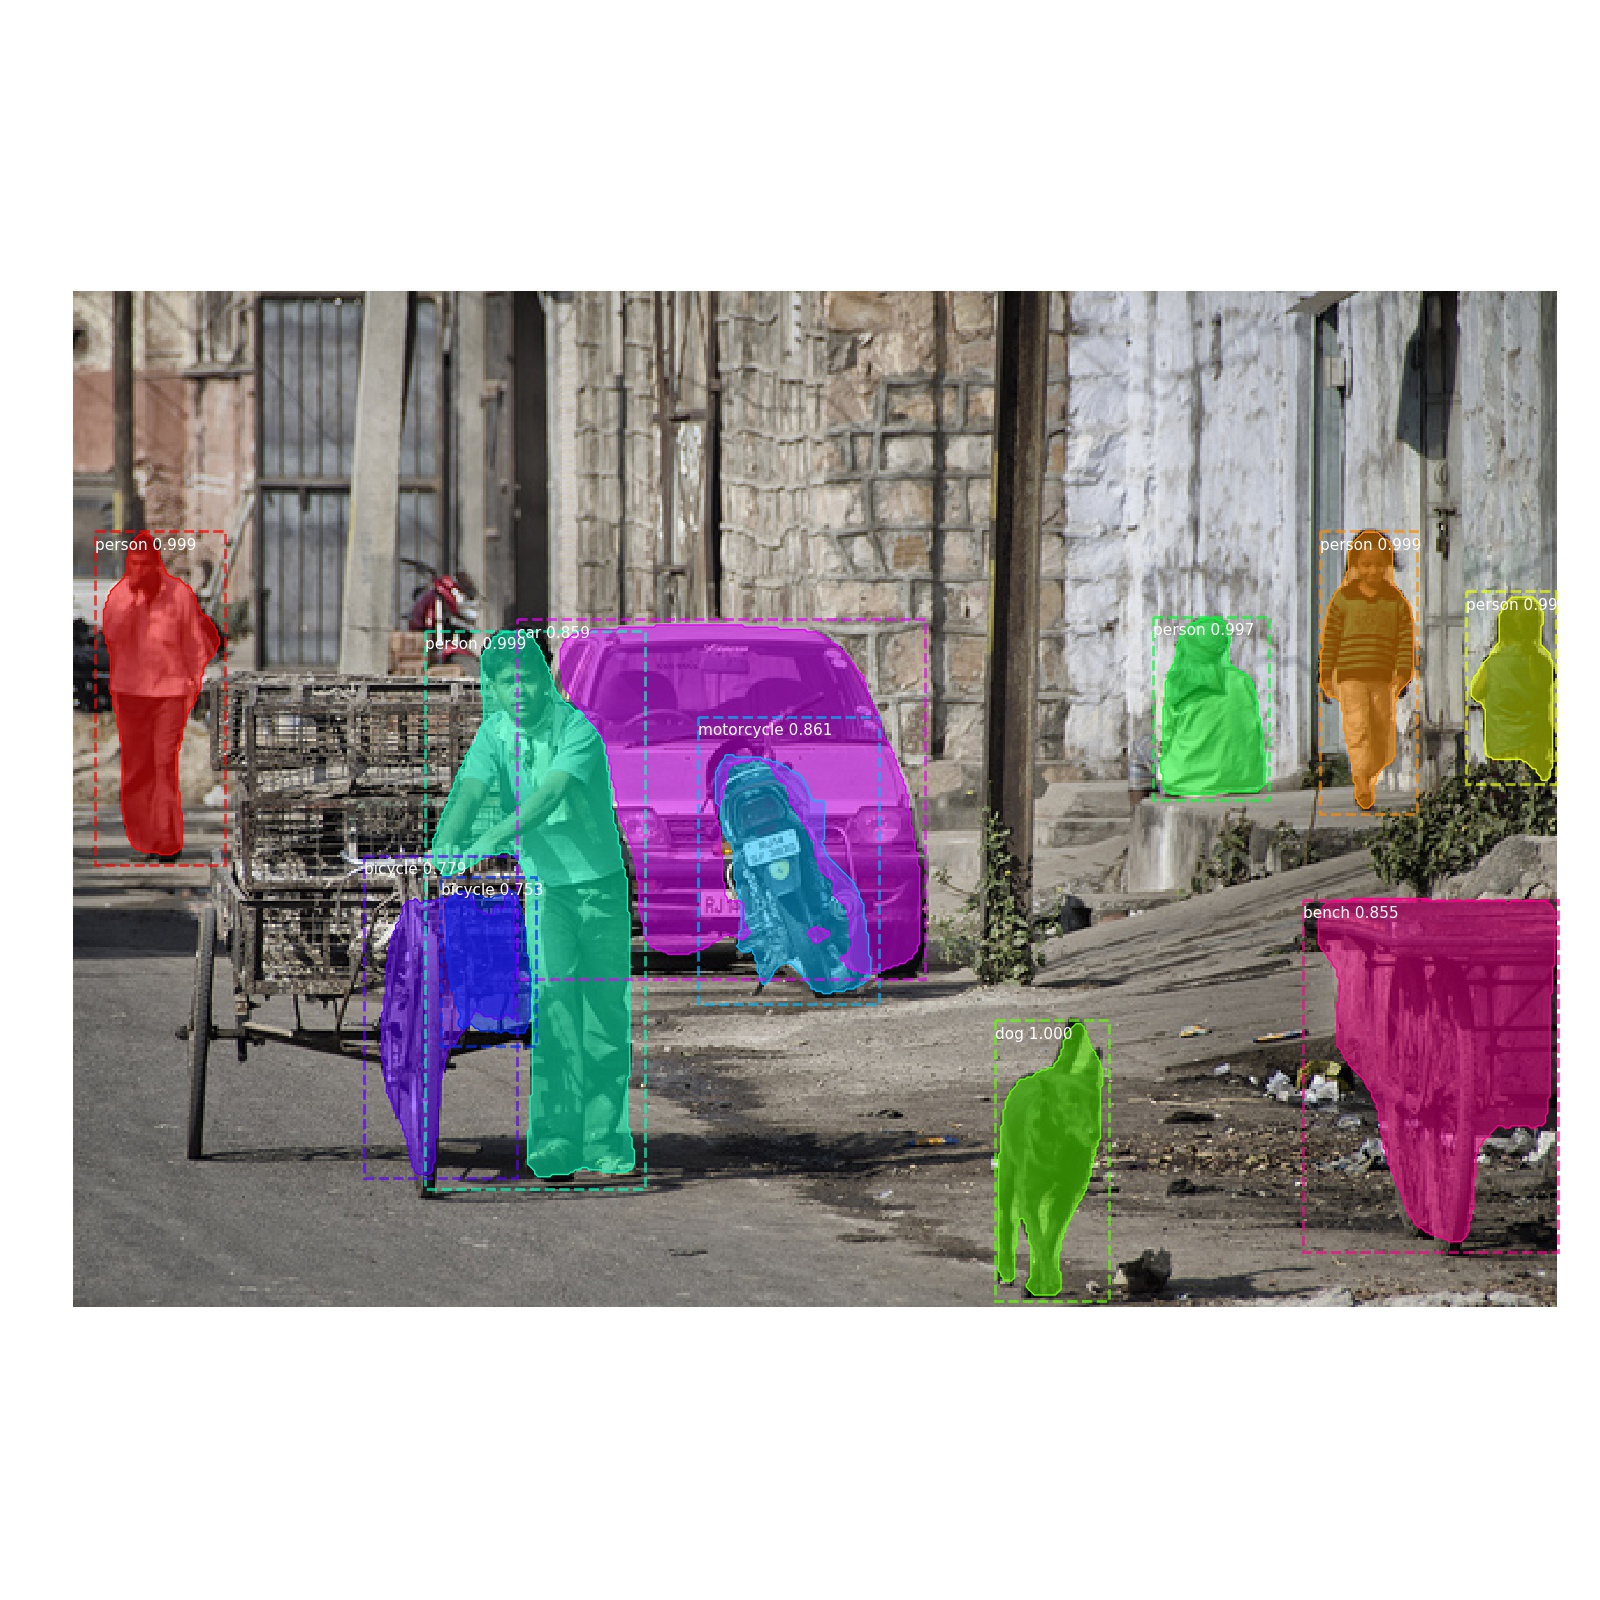
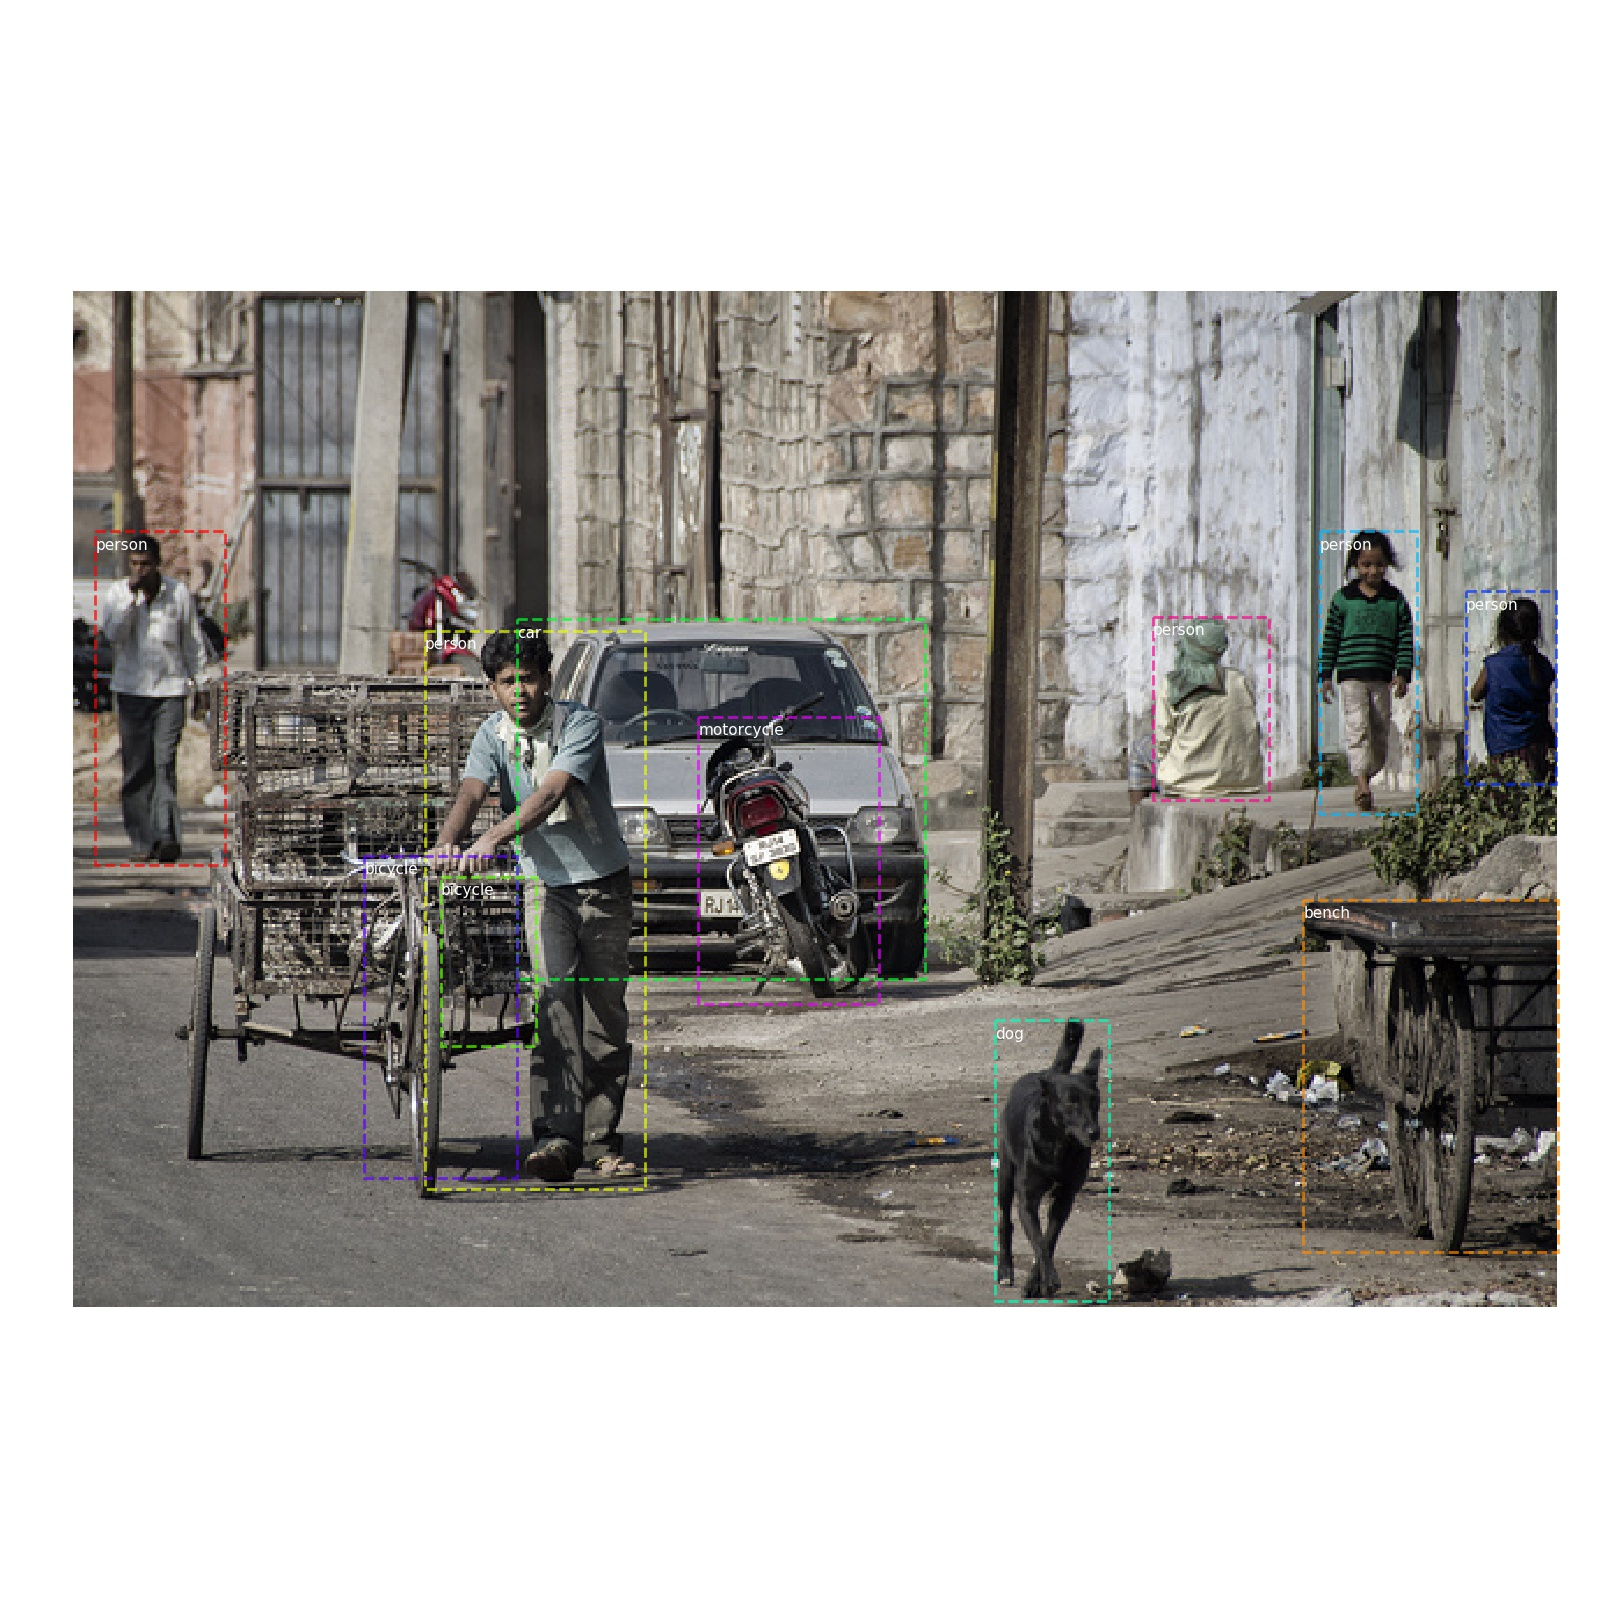
Can choose what components to output

diff --git a/main.py b/main.py
@@ -67,21 +67,22 @@ def main(args):
 
 	# Fill in image and video relevance data to the database
 	db = sqlite3.connect(args.db_path)
+	output_array = [args.bound_boxes, args.masks, args.scores, args.labels]
 	if(args.proc_imgs):
-		img_labels = analyze_images(model,args.img_dir, args.num_imgs, class_names, args.output, args.save)
+		img_labels = analyze_images(model,args.img_dir, args.num_imgs, class_names, args.output, args.save, output_array)
 		for i, c, s in img_labels:
 			rel = calc_relevence(c, s) 
 			add_labels_db(db, i, rel)
 
 	if(args.proc_vids):
-		vid_labels = analyze_videos(model,args.vid_dir, args.num_vids, class_names, args.output)
+		vid_labels = analyze_videos(model,args.vid_dir, args.num_vids, class_names, args.output, args.save, output_array)
 		for i, c, s in vid_labels:
 			rel = calc_relevence(c, s)
 			add_labels_db(db, i, rel) 
 		
 
 # Analyzes images in image directory and detects objects in each
-def analyze_images(model, img_dir, num_imgs, class_names, output, save):
+def analyze_images(model, img_dir, num_imgs, class_names, output, save, o_arr):
 	img_names = []
 	for i, f in enumerate(os.listdir(img_dir), 1):
 		if i <= num_imgs or num_imgs == -1:
@@ -100,7 +101,7 @@ def analyze_images(model, img_dir, num_imgs, class_names, output, save):
 		class_ids.append(r_class_ids)
 		scores.append(r_scores)
 		if save or output:
-			p_img = get_processed_image(image, r_class_ids, boxes=result[0]['rois'], masks=result[0]['masks'], class_names=class_names, scores=r_scores)
+			p_img = get_processed_image(image, r_class_ids, boxes=result[0]['rois'], masks=result[0]['masks'], class_names=class_names, scores=r_scores, o_arr=o_arr)
 			if output:
 				skimage.io.imshow(p_img)
 				plt.show()
@@ -115,7 +116,7 @@ def analyze_images(model, img_dir, num_imgs, class_names, output, save):
 # Analyzes videos in video directory and detects objects in each
 # Todo: Next step, save final frames with visualize to create short frame video
 # Todo: Optimize step, skip similar frames
-def analyze_videos(model, vid_dir, num_vids, class_names, output):
+def analyze_videos(model, vid_dir, num_vids, class_names, output, save, o_arr):
 	vid_names = []
 	for i, f in enumerate(os.listdir(vid_dir)):
 		if i <= num_vids or num_vids == -1:
@@ -187,8 +188,8 @@ def add_labels_db(db, fname, rel):
 	db.commit()
 
 # Returns an image object with optional bounding boxes, masks and class names
-def get_processed_image(image, class_ids, boxes=[], masks=[], class_names=[],
-                      scores=[], title="",
+def get_processed_image(image, class_ids,o_arr, boxes, masks, class_names,
+                      scores, title="",
                       figsize=(16, 16), ax=None,
                       show_mask=True, show_bbox=True,
                       colors=None, captions=None):
@@ -220,7 +221,7 @@ def get_processed_image(image, class_ids, boxes=[], masks=[], class_names=[],
         color = colors[i]
 
         # Bounding box
-        if len(boxes) > 0:
+        if  o_arr[0]:
 	        if not np.any(boxes[i]):
 	            # Skip this instance. Has no bbox. Likely lost in image cropping.
 	            continue
@@ -232,10 +233,13 @@ def get_processed_image(image, class_ids, boxes=[], masks=[], class_names=[],
 	            ax.add_patch(p)
 
         # Label
-        if len(class_names) > 0:
+        if o_arr[3]:
 	        if not captions:
 	            class_id = class_ids[i]
-	            score = scores[i] if scores is not None else None
+	            if o_arr[2]:
+	            	score = scores[i] if scores is not None else None
+	            else:
+	            	score = None
 	            label = class_names[class_id]
 	            caption = "{} {:.3f}".format(label, score) if score else label
 	        else:
@@ -244,7 +248,7 @@ def get_processed_image(image, class_ids, boxes=[], masks=[], class_names=[],
 	                color='w', size=11, backgroundcolor="none")
 
         # Mask
-        if len(masks) > 0:
+        if o_arr[1]:
 	        mask = masks[:, :, i]
 	        if show_mask:
 	            masked_image = visualize.apply_mask(masked_image, mask, color)
@@ -273,4 +277,9 @@ if __name__ == "__main__":
 	argparser.add_argument('-nv', '--num_vids', type=int, default=-1)
 	argparser.add_argument('-db', '--db_path', type=str, default='labeldb.db')
 	argparser.add_argument('-s', '--save', action='store_true')
+	argparser.add_argument('-bb', '--bound_boxes', action='store_true')
+	argparser.add_argument('-m', '--masks', action='store_true')
+	argparser.add_argument('-sc', '--scores', action='store_true')
+	argparser.add_argument('-l', '--labels', action='store_true')
+
 	main(argparser.parse_args())
